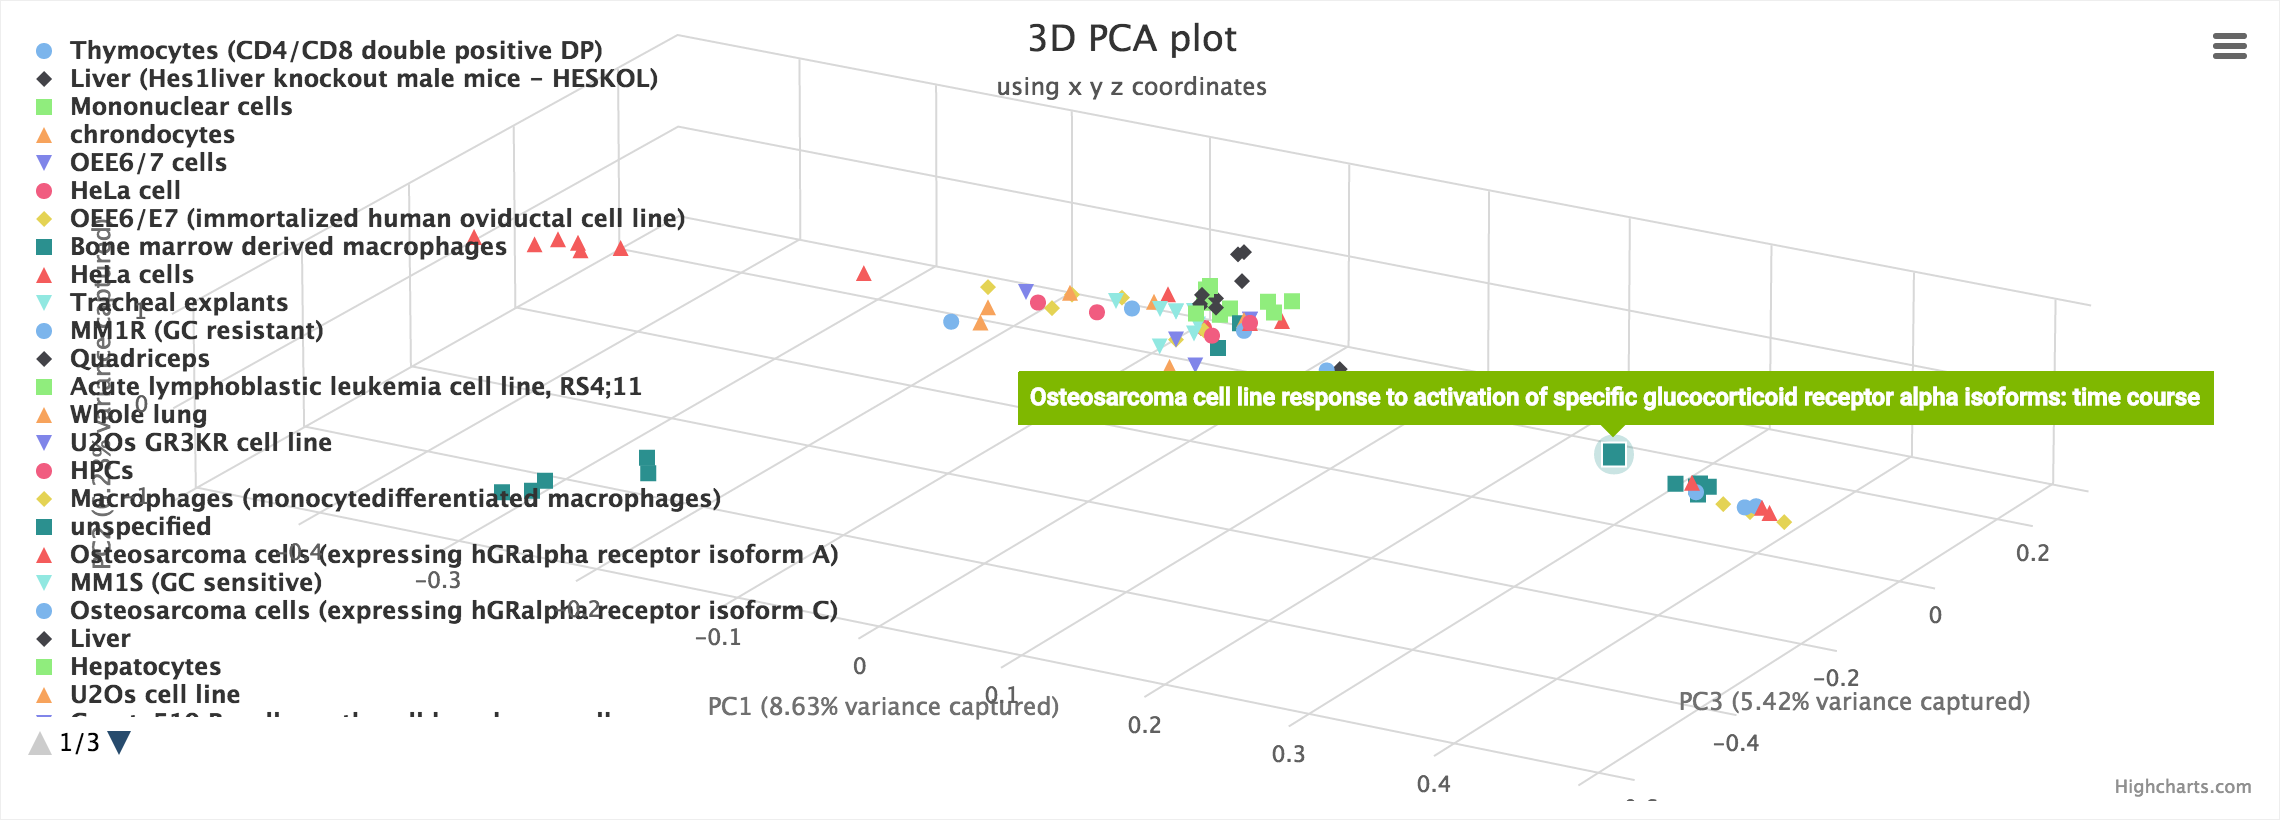
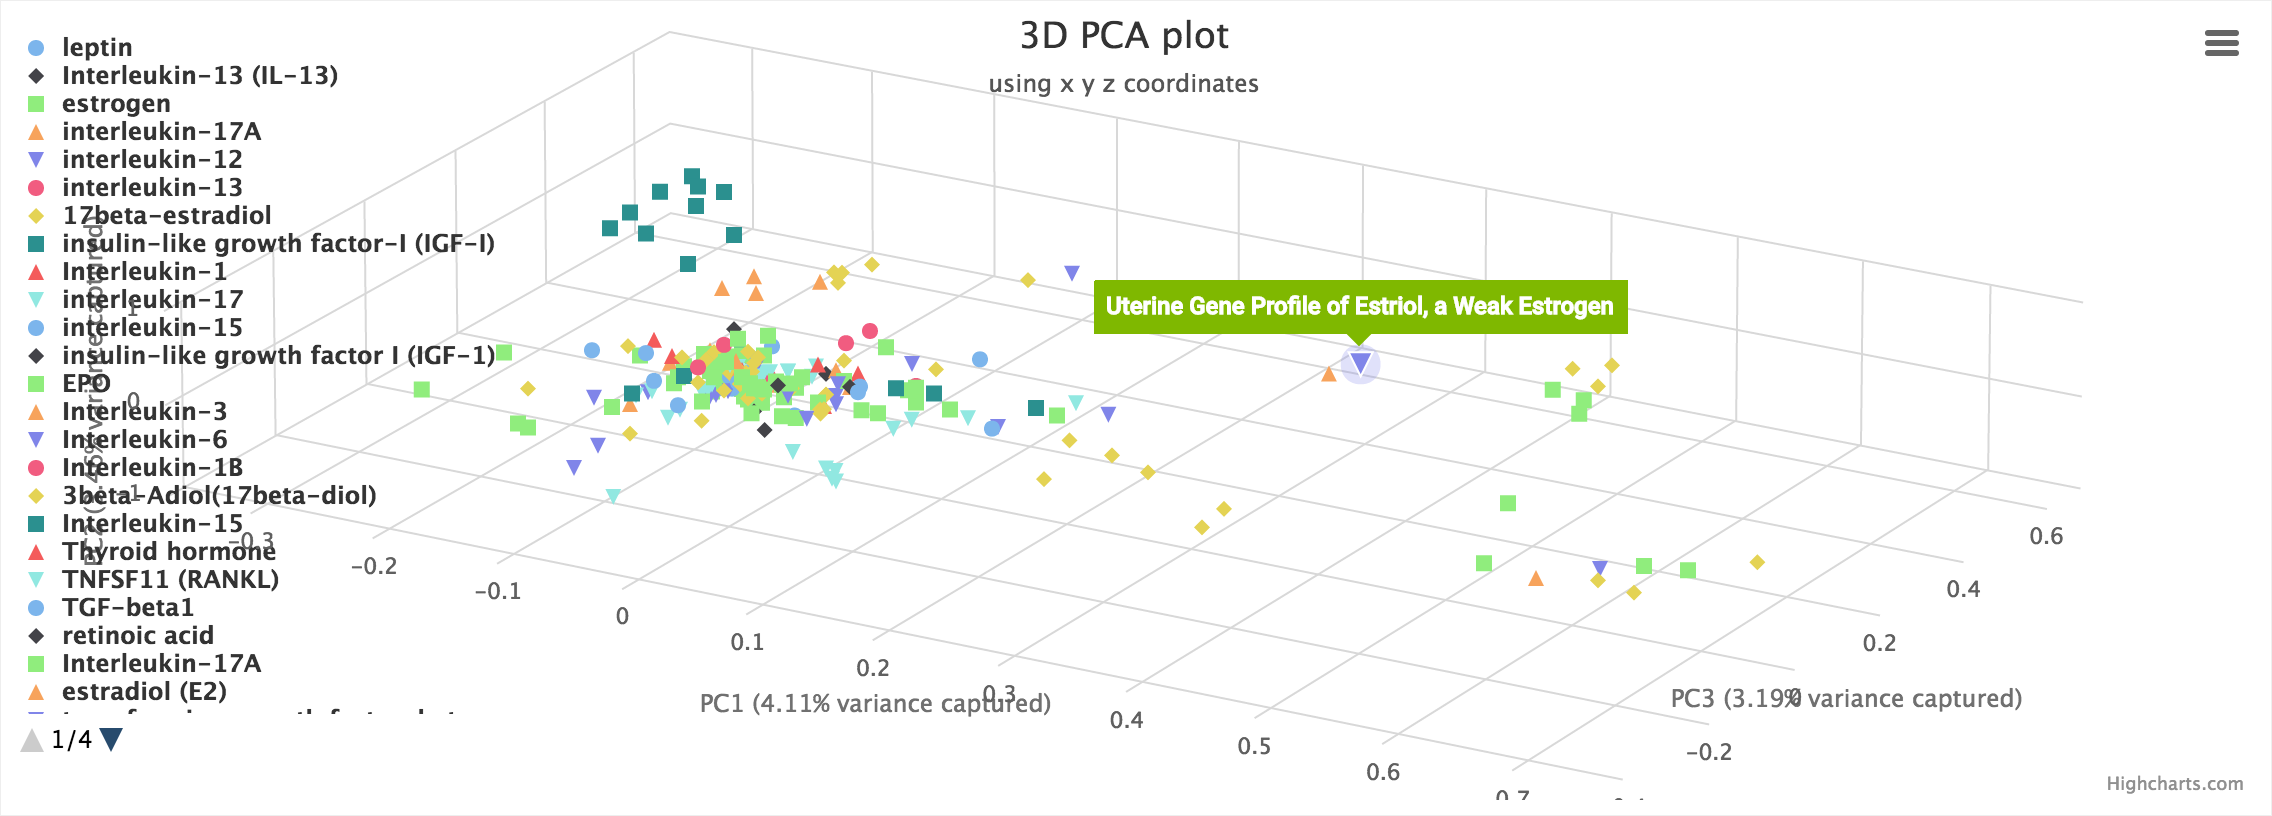
Removed failing test--it had been failing for months--and fixed PCA screenshot and caption.

diff --git a/gen3va/templates/pages/documentation.html b/gen3va/templates/pages/documentation.html
@@ -80,7 +80,7 @@
                                     href='http://amp.pharm.mssm.edu/clustergrammer/' target='_blank'>Clustergrammer</a>, a
                             visualization application developed by the Ma'ayan Lab.</p>
                         <img src='static/images/screenshots/screenshot_pca.png'/>
-                        <p class='caption'>Fig. 1: Screenshot of the principal component analysis plot of 116 gene signatures extracted from studies that profiled the effect of adding endogenous ligands to mammalian cells.</p>
+                        <p class='caption'>Fig. 1: Screenshot of the principal component analysis plot of 275 gene signatures extracted from studies that profiled the effect of adding endogenous ligands to mammalian cells.</p>
                     </div>
                     <div>
                         <h4>Manipulating the heatmaps</h4>
